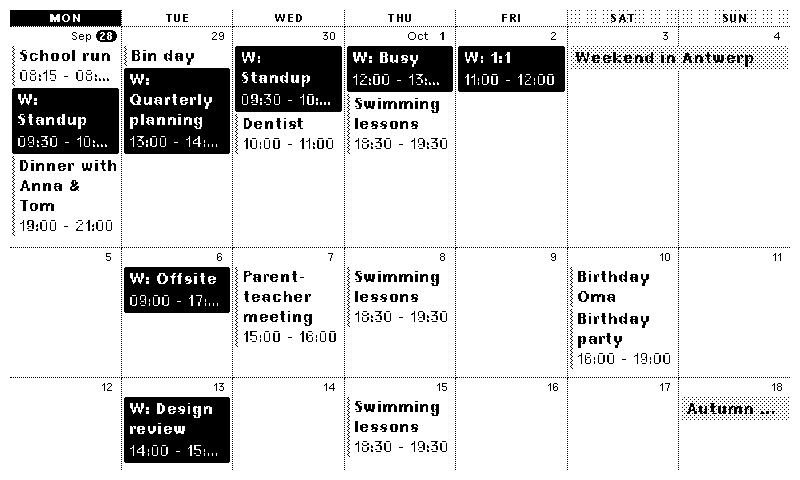
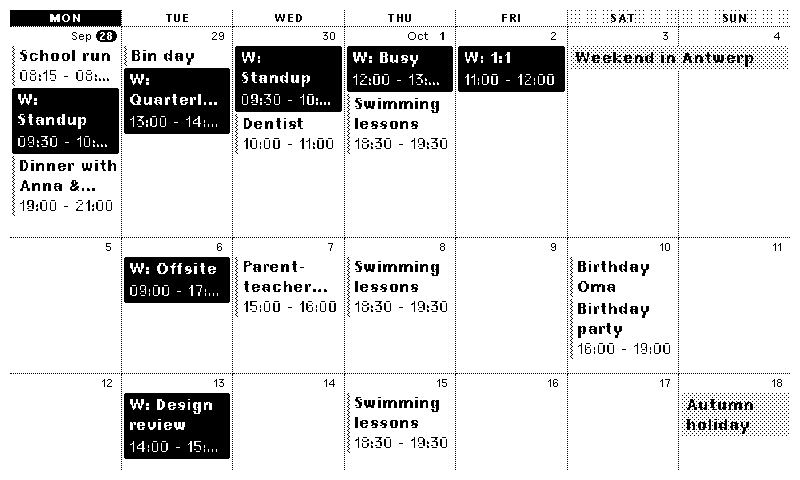
Wrap every event title over at most two lines
Timed events and one-day all-day events without a calendar colour wrapped their
titles in full, while filled events (multi-day bands and anything from a coloured
calendar) were cut to one line. All titles now wrap over at most two lines and then
end in an ellipsis. README screenshots regenerated.

Claude-Session: https://claude.ai/code/session_01VDW5MAJ3EryZV47NvFGNAW

diff --git a/UPSTREAM.md b/UPSTREAM.md
@@ -43,10 +43,12 @@ treats its native plugins as source-available and is fine with them being remixe
 - **Transform fix**: `getBoundingClientRect()` is corrected inside the calendar, so
   FullCalendar sizes correctly under the framework's `transform: scale(--pixel-ratio)`.
 - **Event look**: matched to upstream's month-layout preview. Timed events use
-  FullCalendar's dot, restyled as a grey bar on the left, with a bold title that wraps
+  FullCalendar's dot, restyled as a grey bar on the left, with a bold title
   and the time in grey below it. Multi-day events get a light grey fill (`bg--gray-70`)
   with a bold title; events from a coloured calendar have bold titles too. Single-day all-day events differ from upstream (which fills them
   too): they are drawn like timed events, with the bar and no time.
+  Titles differ too: every title, of any kind of event, wraps over at most two lines and
+  then ends in an ellipsis, where upstream wraps timed titles in full.
   Grid lines are thin grey (dotted on 1-/2-bit), headers are centred and bold with the
   weekend shaded, and day numbers are small.
 - **Busy weeks**: upstream keeps at least 4 weeks, so a very busy month is cut off at

diff --git a/README.md b/README.md
@@ -218,6 +218,7 @@ family events get no prefix and a `gray-65` fill, and work events get `W:` and a
 - Events without a calendar color get a grey bar on the left with a bold title, and
   timed events the time in grey below it (upstream's look). Single-day all-day events
   are drawn the same way; multi-day events are a light grey band across their days.
+- Titles wrap over at most two lines, then end in an ellipsis, for every kind of event.
 
 ## TRMNL framework
 
